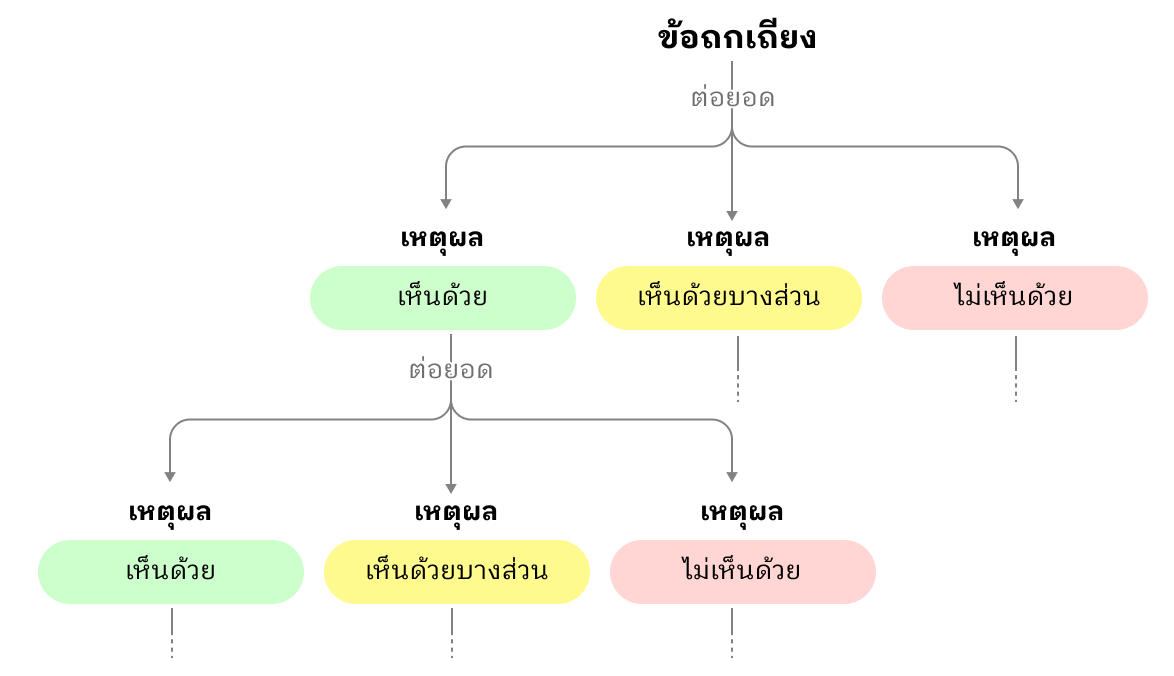
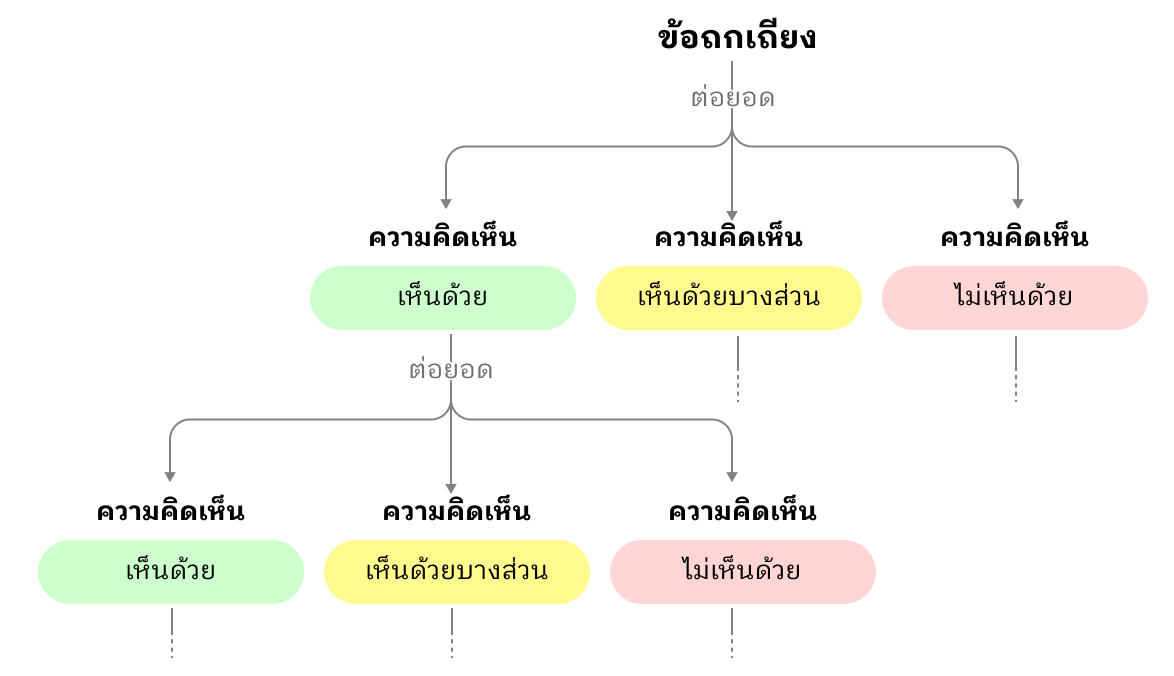
Add files via upload

diff --git a/dashboard.html b/dashboard.html
@@ -101,8 +101,8 @@
 
     <!-- Section 1 -->
     <h2 style="font-family:var(--font-display);font-weight:var(--font-display-weight);font-size:var(--font-size-lg);color:var(--color-text);margin-bottom:var(--space-4)">โครงสร้างข้อมูล</h2>
-    <img src="images/data_structure.png" alt="โครงสร้างข้อมูล" style="width:100%;border-radius:var(--radius-md);margin-bottom:var(--space-5)">
-    <p style="font-size:var(--font-size-sm);color:var(--color-text-muted);line-height:1.75;margin-bottom:var(--space-4)">ข้อมูลแพลตฟอร์มนี้เป็นเสมือนต้นไม้ของเหตุผล ประกอบไปด้วย <strong style="color:var(--color-text)">ข้อถกเถียง</strong> และ <strong style="color:var(--color-text)">เหตุผล</strong></p>
+    <img src="images/data_structure.png?v=1789470376" alt="โครงสร้างข้อมูล" style="width:100%;border-radius:var(--radius-md);margin-bottom:var(--space-5)">
+    <p style="font-size:var(--font-size-sm);color:var(--color-text-muted);line-height:1.75;margin-bottom:var(--space-4)">ข้อมูลแพลตฟอร์มนี้เป็นเสมือนต้นไม้ของความคิดเห็น ประกอบไปด้วย <strong style="color:var(--color-text)">ข้อถกเถียง</strong> และ <strong style="color:var(--color-text)">ความคิดเห็น</strong></p>
     <ul style="list-style:none;padding:0;display:flex;flex-direction:column;gap:var(--space-4);margin-bottom:var(--space-8)">
       <li style="display:flex;gap:var(--space-3);align-items:flex-start">
         <span style="flex-shrink:0;margin-top:3px">•</span>
@@ -111,13 +111,25 @@
       <li style="display:flex;gap:var(--space-3);align-items:flex-start">
         <span style="flex-shrink:0;margin-top:3px">•</span>
         <div style="font-size:var(--font-size-sm);color:var(--color-text-muted);line-height:1.75">
-          <strong style="color:var(--color-text)">เหตุผล</strong> คือ กิ่งก้านสาขา เป็นข้อความแสดงเหตุผลตอบโต้ข้อถกเถียงใดข้อถกเถียงหนึ่ง ซึ่งอาจเป็นเหตุผลที่ <strong>เห็นด้วย</strong> <strong>เห็นด้วยบางส่วน</strong> (หมายถึง เห็นด้วยแต่มีเงื่อนไขหรือข้อกังวลบางอย่าง) หรือ <strong>ไม่เห็นด้วย</strong> ต่อข้อถกเถียงนั้นๆ
+          <strong style="color:var(--color-text)">ความคิดเห็น</strong> คือ กิ่งก้านสาขา เป็นข้อความแสดงความคิดเห็นตอบโต้ข้อถกเถียงใดข้อถกเถียงหนึ่ง ซึ่งอาจเป็นความคิดเห็นที่ <strong>เห็นด้วย</strong> <strong>เห็นด้วยบางส่วน</strong> (หมายถึง เห็นด้วยแต่มีเงื่อนไขหรือข้อกังวลบางอย่าง) หรือ <strong>ไม่เห็นด้วย</strong> ต่อข้อถกเถียงนั้นๆ
           <ul style="list-style:none;padding:0;margin-top:var(--space-2)">
-            <li style="display:flex;gap:var(--space-2);align-items:flex-start;padding-left:var(--space-4)"><span style="flex-shrink:0;margin-top:3px">–</span><span>เหตุผลหนึ่งสามารถมีเหตุผลอื่นๆ ต่อยอดได้ โดยอาจเป็นเหตุผลที่ <strong>เห็นด้วย</strong> <strong>เห็นด้วยบางส่วน</strong> หรือ <strong>ไม่เห็นด้วย</strong> ต่อเหตุผลนั้นๆ</span></li>
+            <li style="display:flex;gap:var(--space-2);align-items:flex-start;padding-left:var(--space-4)"><span style="flex-shrink:0;margin-top:3px">–</span><span>ความคิดเห็นหนึ่งสามารถมีความคิดเห็นอื่นๆ ต่อยอดได้ โดยอาจเป็นความคิดเห็นที่ <strong>เห็นด้วย</strong> <strong>เห็นด้วยบางส่วน</strong> หรือ <strong>ไม่เห็นด้วย</strong> ต่อความคิดเห็นนั้นๆ</span></li>
           </ul>
         </div>
       </li>
     </ul>
+
+    <div style="background:var(--color-surface-alt);border-radius:var(--radius-md);padding:var(--space-4) var(--space-5);margin-bottom:var(--space-8)">
+      <div style="font-size:var(--font-size-xs);font-weight:600;color:var(--color-text-subtle);text-transform:uppercase;letter-spacing:0.05em;margin-bottom:var(--space-3)">เช่น</div>
+      <div style="font-size:var(--font-size-sm);color:var(--color-text-muted);line-height:1.75;margin-bottom:var(--space-3)"><strong style="color:var(--color-text)">ข้อถกเถียง:</strong> สสร. ควรมาจากการเลือกตั้ง 100%</div>
+      <div style="font-size:var(--font-size-sm);color:var(--color-text-muted);line-height:1.75">
+        <strong style="color:var(--color-text)">ความคิดเห็น:</strong>
+        <div style="margin-top:var(--space-2);display:flex;flex-direction:column;gap:var(--space-2)">
+          <div><strong>เห็นด้วย</strong> - จะได้รับประกันว่ารัฐธรรมนูญจะมีความยึดโยงกับประชาชน</div>
+          <div><strong>เห็นด้วยบางส่วน</strong> - ควรมีบางส่วนมาจากการแต่งตั้งตามความเชี่ยวชาญ เพื่อรับประกันความสามารถของผู้ร่าง</div>
+        </div>
+      </div>
+    </div>
 
     <!-- Section 2 -->
     <h2 style="font-family:var(--font-display);font-weight:var(--font-display-weight);font-size:var(--font-size-lg);color:var(--color-text);margin-bottom:var(--space-4);padding-top:var(--space-6);border-top:1px solid var(--color-border)">ที่มาและกระบวนการจัดการข้อมูล</h2>
@@ -127,7 +139,7 @@
       <li><strong style="color:var(--color-text)">เรียบเรียงและจัดระเบียบบทสนทนา</strong>
         <ul style="list-style:disc;padding-left:var(--space-5);margin-top:var(--space-2);display:flex;flex-direction:column;gap:var(--space-2)">
           <li>เมื่อจบวงสนทนา ผู้จดบันทึกบทสนทนาจะนำข้อมูลมาเรียบเรียงใหม่ตามโครงสร้างของเว็บไซต์ และกรอกข้อมูลเข้าสู่ระบบหลังบ้าน</li>
-          <li>เนื่องจากการสนทนาตามธรรมชาติมักไม่ได้มีโครงสร้างตายตัว คำพูดที่เกิดขึ้นในวงสนทนาจึงไม่ได้ถูกนำมาแสดงบนเว็บไซต์แบบตรงไปตรงมา แต่จะถูกเรียบเรียงและจัดระเบียบใหม่ โดยคำพูดที่ไม่ได้มีลักษณะเป็นข้อถกเถียงหรือเหตุผลประกอบข้อถกเถียง จะไม่ถูกนำมาแสดงบนเว็บไซต์</li>
+          <li>เนื่องจากการสนทนาตามธรรมชาติมักไม่ได้มีโครงสร้างตายตัว คำพูดที่เกิดขึ้นในวงสนทนาจึงไม่ได้ถูกนำมาแสดงบนเว็บไซต์แบบตรงไปตรงมา แต่จะถูกเรียบเรียงและจัดระเบียบใหม่ โดยคำพูดที่ไม่ได้มีลักษณะเป็นข้อถกเถียงหรือความคิดเห็นประกอบข้อถกเถียง จะไม่ถูกนำมาแสดงบนเว็บไซต์</li>
         </ul>
       </li>
       <li><strong style="color:var(--color-text)">กรอกข้อมูลเข้าสู่ระบบ</strong>
@@ -152,7 +164,7 @@
     <div style="background:var(--color-surface-alt);border-radius:var(--radius-md);border-left:3px solid var(--color-partial);padding:var(--space-4) var(--space-5);display:flex;flex-direction:column;gap:var(--space-3)">
       <p style="font-size:var(--font-size-sm);color:var(--color-text-muted);line-height:1.75;margin:0">ข้อมูลในแพลตฟอร์มนี้ <strong style="color:var(--color-text)">ไม่ใช่ผลสำรวจความคิดเห็น (Poll)</strong> เนื่องจากไม่ได้ใช้กระบวนการสุ่มตัวอย่างตามหลักการวิจัย และคำตอบส่วนใหญ่มีลักษณะเป็นคำตอบปลายเปิด</p>
       <p style="font-size:var(--font-size-sm);color:var(--color-text-muted);line-height:1.75;margin:0">ดังนั้น <strong style="color:var(--color-text)">'จำนวน'</strong> ต่าง ๆ ที่ปรากฏในเว็บไซต์ จึงไม่สามารถนำไปใช้อ้างอิงเพื่อสะท้อนความคิดเห็นของประชาชนทั้งประเทศได้</p>
-      <p style="font-size:var(--font-size-sm);color:var(--color-text-muted);line-height:1.75;margin:0">บทบาทของข้อมูลเชิงปริมาณในระบบ คือการช่วย <strong style="color:var(--color-text)">ชี้ให้เห็นประเด็นที่มีการถกเถียงและมุมมองที่หลากหลาย</strong> เพื่อให้ผู้ใช้งานสามารถลงลึกไปสำรวจเหตุผลและมุมมองที่แตกต่างกันได้ต่อไป</p>
+      <p style="font-size:var(--font-size-sm);color:var(--color-text-muted);line-height:1.75;margin:0">บทบาทของข้อมูลเชิงปริมาณในระบบ คือการช่วย <strong style="color:var(--color-text)">ชี้ให้เห็นประเด็นที่มีการถกเถียงและมุมมองที่หลากหลาย</strong> เพื่อให้ผู้ใช้งานสามารถลงลึกไปสำรวจความคิดเห็นและมุมมองที่แตกต่างกันได้ต่อไป</p>
     </div>
   </div>
 </div>
@@ -167,11 +179,11 @@
     <ul style="font-size:var(--font-size-sm);color:var(--color-text-muted);line-height:1.75;padding-left:var(--space-5);margin-bottom:var(--space-6);display:flex;flex-direction:column;gap:2px">
       <li>category.csv — หมวดหมู่และประเด็นย่อย</li>
       <li>topics.csv — ข้อถกเถียงทั้งหมด</li>
-      <li>comments.csv — เหตุผลทั้งหมด</li>
+      <li>comments.csv — ความคิดเห็นทั้งหมด</li>
       <li>events.csv — วงสนทนา</li>
       <li>topic_question.csv — ความเชื่อมโยงข้อถกเถียงกับประเด็น</li>
       <li>topic_event.csv — ความเชื่อมโยงข้อถกเถียงกับวงสนทนา</li>
-      <li>comment_event.csv — ความเชื่อมโยงเหตุผลกับวงสนทนา</li>
+      <li>comment_event.csv — ความเชื่อมโยงความคิดเห็นกับวงสนทนา</li>
     </ul>
     <div style="display:flex;gap:var(--space-3);justify-content:flex-end">
       <button onclick="closeDownloadModal()" style="padding:8px 20px;background:none;border:1px solid var(--color-border-strong);border-radius:var(--radius-md);font-family:var(--font-body);font-size:var(--font-size-sm);color:var(--color-text-muted);cursor:pointer">ยกเลิก</button>
@@ -180,8 +192,8 @@
   </div>
 </div>
 
-<script src="js/utils.js?v=3" charset="utf-8"></script>
-<script src="js/dashboard.js?v=19" charset="utf-8"></script>
+<script src="js/utils.js?v=4" charset="utf-8"></script>
+<script src="js/dashboard.js?v=23" charset="utf-8"></script>
 <script src="js/nav.js" charset="utf-8"></script>
 </body>
 </html>

diff --git a/about.html b/about.html
@@ -87,8 +87,8 @@ section:last-of-type { border-bottom: none; }
 
       <div class="data-subsection">
         <h3 class="sub-heading">โครงสร้างข้อมูล</h3>
-        <img src="images/data_structure.png" alt="โครงสร้างข้อมูล">
-        <p class="body-text">ข้อมูลแพลตฟอร์มนี้เป็นเสมือนต้นไม้ของเหตุผล ประกอบไปด้วย <strong style="color:var(--color-text)">ข้อถกเถียง</strong> และ <strong style="color:var(--color-text)">เหตุผล</strong></p>
+        <img src="images/data_structure.png?v=1789470376" alt="โครงสร้างข้อมูล">
+        <p class="body-text">ข้อมูลแพลตฟอร์มนี้เป็นเสมือนต้นไม้ของความคิดเห็น ประกอบไปด้วย <strong style="color:var(--color-text)">ข้อถกเถียง</strong> และ <strong style="color:var(--color-text)">ความคิดเห็น</strong></p>
         <ul style="list-style:none;padding:0">
           <li style="display:flex;gap:var(--space-3);align-items:flex-start;margin-bottom:var(--space-3)">
             <span>•</span>
@@ -97,13 +97,24 @@ section:last-of-type { border-bottom: none; }
           <li style="display:flex;gap:var(--space-3);align-items:flex-start">
             <span>•</span>
             <span>
-              <strong style="color:var(--color-text)">เหตุผล</strong> คือ กิ่งก้านสาขา เป็นข้อความแสดงเหตุผลตอบโต้ข้อถกเถียงใดข้อถกเถียงหนึ่ง ซึ่งอาจเป็นเหตุผลที่ <strong>เห็นด้วย</strong> <strong>เห็นด้วยบางส่วน</strong> (หมายถึง เห็นด้วยแต่มีเงื่อนไขหรือข้อกังวลบางอย่าง) หรือ <strong>ไม่เห็นด้วย</strong> ต่อข้อถกเถียงนั้นๆ
+              <strong style="color:var(--color-text)">ความคิดเห็น</strong> คือ กิ่งก้านสาขา เป็นข้อความแสดงความคิดเห็นตอบโต้ข้อถกเถียงใดข้อถกเถียงหนึ่ง ซึ่งอาจเป็นความคิดเห็นที่ <strong>เห็นด้วย</strong> <strong>เห็นด้วยบางส่วน</strong> (หมายถึง เห็นด้วยแต่มีเงื่อนไขหรือข้อกังวลบางอย่าง) หรือ <strong>ไม่เห็นด้วย</strong> ต่อข้อถกเถียงนั้นๆ
               <ul style="list-style:none;padding:0;margin-top:var(--space-2)">
-                <li style="display:flex;gap:var(--space-2);align-items:flex-start;padding-left:var(--space-4)"><span>–</span><span>เหตุผลหนึ่งสามารถมีเหตุผลอื่นๆ ต่อยอดได้ โดยอาจเป็นเหตุผลที่ <strong>เห็นด้วย</strong> <strong>เห็นด้วยบางส่วน</strong> หรือ <strong>ไม่เห็นด้วย</strong> ต่อเหตุผลนั้นๆ</span></li>
+                <li style="display:flex;gap:var(--space-2);align-items:flex-start;padding-left:var(--space-4)"><span>–</span><span>ความคิดเห็นหนึ่งสามารถมีความคิดเห็นอื่นๆ ต่อยอดได้ โดยอาจเป็นความคิดเห็นที่ <strong>เห็นด้วย</strong> <strong>เห็นด้วยบางส่วน</strong> หรือ <strong>ไม่เห็นด้วย</strong> ต่อความคิดเห็นนั้นๆ</span></li>
               </ul>
             </span>
           </li>
         </ul>
+        <div style="background:var(--color-surface-alt);border-radius:var(--radius-md);padding:var(--space-4) var(--space-5)">
+          <div style="font-size:var(--font-size-xs);font-weight:600;color:var(--color-text-subtle);text-transform:uppercase;letter-spacing:0.05em;margin-bottom:var(--space-3)">เช่น</div>
+          <div style="font-size:var(--font-size-sm);color:var(--color-text-muted);line-height:1.75;margin-bottom:var(--space-3)"><strong style="color:var(--color-text)">ข้อถกเถียง:</strong> สสร. ควรมาจากการเลือกตั้ง 100%</div>
+          <div style="font-size:var(--font-size-sm);color:var(--color-text-muted);line-height:1.75">
+            <strong style="color:var(--color-text)">ความคิดเห็น:</strong>
+            <div style="margin-top:var(--space-2);display:flex;flex-direction:column;gap:var(--space-2)">
+              <div><strong>เห็นด้วย</strong> - จะได้รับประกันว่ารัฐธรรมนูญจะมีความยึดโยงกับประชาชน</div>
+              <div><strong>เห็นด้วยบางส่วน</strong> - ควรมีบางส่วนมาจากการแต่งตั้งตามความเชี่ยวชาญ เพื่อรับประกันความสามารถของผู้ร่าง</div>
+            </div>
+          </div>
+        </div>
       </div>
 
       <div class="data-subsection">
@@ -114,7 +125,7 @@ section:last-of-type { border-bottom: none; }
           <li><strong style="color:var(--color-text)">เรียบเรียงและจัดระเบียบบทสนทนา</strong>
             <ul style="list-style:disc;padding-left:var(--space-5)">
               <li>เมื่อจบวงสนทนา ผู้จดบันทึกบทสนทนาจะนำข้อมูลมาเรียบเรียงใหม่ตามโครงสร้างของเว็บไซต์ และกรอกข้อมูลเข้าสู่ระบบหลังบ้าน</li>
-              <li>เนื่องจากการสนทนาตามธรรมชาติมักไม่ได้มีโครงสร้างตายตัว คำพูดที่เกิดขึ้นในวงสนทนาจึงไม่ได้ถูกนำมาแสดงบนเว็บไซต์แบบตรงไปตรงมา แต่จะถูกเรียบเรียงและจัดระเบียบใหม่ โดยคำพูดที่ไม่ได้มีลักษณะเป็นข้อถกเถียงหรือเหตุผลประกอบข้อถกเถียง จะไม่ถูกนำมาแสดงบนเว็บไซต์</li>
+              <li>เนื่องจากการสนทนาตามธรรมชาติมักไม่ได้มีโครงสร้างตายตัว คำพูดที่เกิดขึ้นในวงสนทนาจึงไม่ได้ถูกนำมาแสดงบนเว็บไซต์แบบตรงไปตรงมา แต่จะถูกเรียบเรียงและจัดระเบียบใหม่ โดยคำพูดที่ไม่ได้มีลักษณะเป็นข้อถกเถียงหรือความคิดเห็นประกอบข้อถกเถียง จะไม่ถูกนำมาแสดงบนเว็บไซต์</li>
             </ul>
           </li>
           <li><strong style="color:var(--color-text)">กรอกข้อมูลเข้าสู่ระบบ</strong>
@@ -140,7 +151,7 @@ section:last-of-type { border-bottom: none; }
         <div class="data-caution">
           <p>ข้อมูลในแพลตฟอร์มนี้ <strong style="color:var(--color-text)">ไม่ใช่ผลสำรวจความคิดเห็น (Poll)</strong> เนื่องจากไม่ได้ใช้กระบวนการสุ่มตัวอย่างตามหลักการวิจัย และคำตอบส่วนใหญ่มีลักษณะเป็นคำตอบปลายเปิด</p>
           <p>ดังนั้น <strong style="color:var(--color-text)">'จำนวน'</strong> ต่าง ๆ ที่ปรากฏในเว็บไซต์ จึงไม่สามารถนำไปใช้อ้างอิงเพื่อสะท้อนความคิดเห็นของประชาชนทั้งประเทศได้</p>
-          <p>บทบาทของข้อมูลเชิงปริมาณในระบบ คือการช่วย <strong style="color:var(--color-text)">ชี้ให้เห็นประเด็นที่มีการถกเถียงและมุมมองที่หลากหลาย</strong> เพื่อให้ผู้ใช้งานสามารถลงลึกไปสำรวจเหตุผลและมุมมองที่แตกต่างกันได้ต่อไป</p>
+          <p>บทบาทของข้อมูลเชิงปริมาณในระบบ คือการช่วย <strong style="color:var(--color-text)">ชี้ให้เห็นประเด็นที่มีการถกเถียงและมุมมองที่หลากหลาย</strong> เพื่อให้ผู้ใช้งานสามารถลงลึกไปสำรวจความคิดเห็นและมุมมองที่แตกต่างกันได้ต่อไป</p>
         </div>
       </div>
 
@@ -233,11 +244,11 @@ section:last-of-type { border-bottom: none; }
     <ul style="font-size:var(--font-size-sm);color:var(--color-text-muted);line-height:1.75;padding-left:var(--space-5);margin-bottom:var(--space-6);display:flex;flex-direction:column;gap:2px">
       <li>category.csv — หมวดหมู่และประเด็นย่อย</li>
       <li>topics.csv — ข้อถกเถียงทั้งหมด</li>
-      <li>comments.csv — เหตุผลทั้งหมด</li>
+      <li>comments.csv — ความคิดเห็นทั้งหมด</li>
       <li>events.csv — วงสนทนา</li>
       <li>topic_question.csv — ความเชื่อมโยงข้อถกเถียงกับประเด็น</li>
       <li>topic_event.csv — ความเชื่อมโยงข้อถกเถียงกับวงสนทนา</li>
-      <li>comment_event.csv — ความเชื่อมโยงเหตุผลกับวงสนทนา</li>
+      <li>comment_event.csv — ความเชื่อมโยงความคิดเห็นกับวงสนทนา</li>
     </ul>
     <div style="display:flex;gap:var(--space-3);justify-content:flex-end">
       <button onclick="closeDownloadModal()" style="padding:8px 20px;background:none;border:1px solid var(--color-border-strong);border-radius:var(--radius-md);font-family:var(--font-body);font-size:var(--font-size-sm);color:var(--color-text-muted);cursor:pointer">ยกเลิก</button>

diff --git a/js/dashboard.js b/js/dashboard.js
@@ -414,7 +414,7 @@ function renderEventSidebar() {
   // Result label — mirrors event breadcrumb text
   let resultText = '';
   if (state.selectedDemographicTags.size > 0) {
-    const tagList = [...state.selectedDemographicTags].join(' ');
+    const tagList = [...state.selectedDemographicTags].join(' | ');
     resultText = `ทุกวงสนทนาที่มี ${tagList}`;
   } else if (state.selectedEvtId) {
     const evt = state.events[state.selectedEvtId] || {};
@@ -447,8 +447,12 @@ function renderEventSidebar() {
       })
     : evts;
 
-  // Sort filtered events by date descending (newest first)
+  // Sort: selected event always first, then by date descending (newest first)
   filteredEvts.sort((a, b) => {
+    const aSelected = a.event_id === state.selectedEvtId;
+    const bSelected = b.event_id === state.selectedEvtId;
+    if (aSelected && !bSelected) return -1;
+    if (bSelected && !aSelected) return 1;
     const da = a.date ? new Date(a.date) : new Date(0);
     const db = b.date ? new Date(b.date) : new Date(0);
     return db - da;
@@ -463,7 +467,7 @@ function renderEventSidebar() {
     const domId = `evt-${eid}`;
     const isOpen = state.selectedEvtId === eid;
     const topicCount = (state.eventTopics[eid] || []).length;
-    const dateStr = evt.date ? evt.date.substring(0, 10) : '';
+    const dateStr = evt.date ? formatThaiDate(evt.date) : '';
     const titleEn = evt.title_en || evt.display_name || eid;
     const loc = evt.location || '';
     const group = evt.target_group || '';
@@ -660,7 +664,7 @@ function renderTopics() {
       <div class="topics-count">แสดง <strong>${filtered.length}</strong> จากทั้งหมด ${state.topics.length} ข้อถกเถียง</div>
       <div style="display:flex;align-items:center;gap:var(--space-2)">
         <span style="font-size:var(--font-size-xs);color:var(--color-text-muted);white-space:nowrap">เรียงตาม</span>
-        <select class="sort-select" onchange="handleSort(this.value)" id="sort-select">        <option value="most_commented" ${state.sort === 'most_commented' ? 'selected' : ''}>จำนวนเหตุผล</option>
+        <select class="sort-select" onchange="handleSort(this.value)" id="sort-select">        <option value="most_commented" ${state.sort === 'most_commented' ? 'selected' : ''}>จำนวนความคิดเห็น</option>
         <option value="most_agreed" ${state.sort === 'most_agreed' ? 'selected' : ''}>จำนวนเห็นด้วย</option>
         <option value="most_disagreed_partial" ${state.sort === 'most_disagreed_partial' ? 'selected' : ''}>จำนวนเห็นด้วยบางส่วนหรือไม่เห็นด้วย</option>
         ${state.selectedQId ? `<option value="distance_to_question" ${state.sort === 'distance_to_question' ? 'selected' : ''}>ความเกี่ยวข้องกับประเด็นที่เลือก</option>` : ''}
@@ -673,7 +677,7 @@ function renderTopics() {
       <span style="display:flex;align-items:center;gap:5px"><span style="display:inline-block;width:15px;height:15px;border-radius:50%;background:var(--color-partial-light);border:1px solid rgba(0,0,0,0.08)"></span>เห็นด้วยบางส่วน</span>
       <span style="display:flex;align-items:center;gap:5px"><span style="display:inline-block;width:15px;height:15px;border-radius:50%;background:var(--color-disagree-light);border:1px solid rgba(0,0,0,0.08)"></span>ไม่เห็นด้วย</span>
       <span style="color:var(--color-text-subtle)">|</span>
-      <span style="display:flex;align-items:center;gap:5px"><span style="position:relative;display:inline-flex;align-items:center;justify-content:center;width:15px;height:15px;border-radius:50%;background:transparent;border:1.5px solid rgba(0,0,0,0.35)"><span style="position:absolute;font-size:10px;line-height:1;color:rgba(0,0,0,0.45);font-weight:700">+</span></span>เหตุผลที่มีการต่อยอด</span>
+      <span style="display:flex;align-items:center;gap:5px"><span style="position:relative;display:inline-flex;align-items:center;justify-content:center;width:15px;height:15px;border-radius:50%;background:transparent;border:1.5px solid rgba(0,0,0,0.35)"><span style="position:absolute;font-size:10px;line-height:1;color:rgba(0,0,0,0.45);font-weight:700">+</span></span>ความคิดเห็นที่มีการต่อยอด</span>
       <span style="color:var(--color-text-subtle)">|</span>
       <button onclick="showHowToRead()" style="background:none;border:none;font-family:var(--font-body);font-size:var(--font-size-xs);color:var(--color-accent);cursor:pointer;padding:0;text-decoration:underline">เกี่ยวกับข้อมูล</button>
     </div>
@@ -702,7 +706,7 @@ function renderTopics() {
         <div class="topic-title">${titleHtml}</div>
       </div>
       <div class="topic-card-bottom">
-        <div class="total-comments">${depth0Total}<span style="color:#979797"> เหตุผล</span></div>
+        <div class="total-comments">${depth0Total}<span style="color:#979797"> ความคิดเห็น</span></div>
         ${depth0Total === 0 ? '' : `<div class="circle-bar-wrap">${buildCircleBars(t.id)}</div>`}
         ${excerpt ? `<div style="font-size:var(--font-size-xs);color:var(--color-text-muted);line-height:1.5;margin-top:var(--space-2)">${excerpt}</div>` : ''}
       </div>
@@ -912,7 +916,7 @@ function updateBreadcrumb() {
   const evtEl = document.getElementById('breadcrumb-evt-text');
   if (evtEl) {
     if (state.selectedDemographicTags.size > 0) {
-      const tagList = [...state.selectedDemographicTags].map(t => escHtml(t)).join(' ');
+      const tagList = [...state.selectedDemographicTags].map(t => escHtml(t)).join(' | ');
       evtEl.innerHTML = `<span style="color:var(--color-text-subtle);font-weight:400">ทุกวงสนทนาที่มี</span> <span class="breadcrumb-active">${tagList}</span>`;
     } else if (state.selectedEvtId) {
       const evt = state.events[state.selectedEvtId] || {};
@@ -1059,7 +1063,7 @@ function buildEventTooltip(eid, style) {
   if (e.display_name) tooltipRows.push(`<div class="evt-tooltip-row"><div class="evt-tooltip-label">ชื่อวงสนทนา</div><div>${escHtml(e.display_name)}</div></div>`);
   if (e.title_en)     tooltipRows.push(`<div class="evt-tooltip-row"><div class="evt-tooltip-label">Title (EN)</div><div>${escHtml(e.title_en)}</div></div>`);
   if (e.location)     tooltipRows.push(`<div class="evt-tooltip-row"><div class="evt-tooltip-label">สถานที่</div><div>${escHtml(e.location)}</div></div>`);
-  if (e.date)         tooltipRows.push(`<div class="evt-tooltip-row"><div class="evt-tooltip-label">วันที่</div><div>${e.date.substring(0,10)}</div></div>`);
+  if (e.date)         tooltipRows.push(`<div class="evt-tooltip-row"><div class="evt-tooltip-label">วันที่</div><div>${formatThaiDate(e.date)}</div></div>`);
   if (e.target_group) tooltipRows.push(`<div class="evt-tooltip-row"><div class="evt-tooltip-label">กลุ่มเป้าหมาย</div><div>${escHtml(e.target_group)}</div></div>`);
   if (e.participants) tooltipRows.push(`<div class="evt-tooltip-row"><div class="evt-tooltip-label">ผู้เข้าร่วม</div><div>${escHtml(e.participants)} คน</div></div>`);
   if (e.description)  tooltipRows.push(`<div class="evt-tooltip-row"><div class="evt-tooltip-label">รายละเอียด</div><div>${escHtml(e.description)}</div></div>`);
@@ -1274,7 +1278,7 @@ function renderCommentTree(comments, depth) {
   const defaultView = activeGroups[0].view;
   const contextLabel = depth === 0
     ? `<span style="font-size:var(--font-size-xs);color:var(--color-text-muted)">กับข้อถกเถียงนี้</span>`
-    : `<span style="font-size:var(--font-size-xs);color:var(--color-text-muted)">กับเหตุผลนี้</span>`;
+    : `<span style="font-size:var(--font-size-xs);color:var(--color-text-muted)">กับความคิดเห็นนี้</span>`;
 
   // Tab bar
   const colorKey = v => v === 'เห็นด้วย' ? 'agree' : v === 'เห็นด้วยบางส่วน' ? 'partial' : 'disagree';

diff --git a/index.html b/index.html
@@ -168,14 +168,14 @@ section { padding: calc(var(--space-8)*2) 0; }
 <section id="about-data">
   <div class="section-inner">
     <div class="about-data-grid">
-      <img src="images/data_structure.png" alt="โครงสร้างข้อมูล" class="about-data-img">
+      <img src="images/data_structure.png?v=1789470376" alt="โครงสร้างข้อมูล" class="about-data-img">
       <div class="about-data-text">
         <h2 class="section-heading">ความหลากหลายของมุมมอง คือหัวใจสำคัญของโครงการนี้</h2>
         <p class="about-data-desc">เรานำข้อถกเถียงจากแต่ละวงสนทนามาเรียบเรียงและจัดโครงสร้างให้เป็นระบบ โดยหวังว่าช่วยให้ผู้ที่มีส่วนในการร่างรัฐธรรมนูญสามารถพิจารณาทางเลือกต่างๆ ได้รอบด้านมากขึ้น และนำไปสู่การพูดคุยเพื่อหาข้อตกลงร่วมกัน</p>
         <div style="border-left:3px solid var(--color-border-strong);padding-left:var(--space-4)">
           <div style="font-size:var(--font-size-xs);font-weight:600;color:var(--color-text-subtle);text-transform:uppercase;letter-spacing:0.05em;margin-bottom:var(--space-2)">ข้อควรระวังในการตีความข้อมูล</div>
           <p style="font-size:var(--font-size-xs);color:var(--color-text-subtle);line-height:1.75;margin-bottom:var(--space-2)">ข้อมูลในแพลตฟอร์มนี้ ไม่ใช่ผลสำรวจความคิดเห็น (Poll) เนื่องจากไม่ได้ใช้กระบวนการสุ่มตัวอย่างตามหลักการวิจัย และคำตอบส่วนใหญ่มีลักษณะเป็นคำตอบปลายเปิด</p>
-          <p style="font-size:var(--font-size-xs);color:var(--color-text-subtle);line-height:1.75;margin:0">'จำนวน' ต่าง ๆ ที่ปรากฏในเว็บไซต์ จึงไม่สามารถนำไปใช้อ้างอิงเพื่อสะท้อนความคิดเห็นของประชาชนทั้งประเทศได้</p>
+          <p style="font-size:var(--font-size-xs);color:var(--color-text-subtle);line-height:1.75;margin:0"><strong>'จำนวน'</strong> ต่าง ๆ ที่ปรากฏในเว็บไซต์ จึงไม่สามารถนำไปใช้อ้างอิงเพื่อสะท้อนความคิดเห็นของประชาชนทั้งประเทศได้</p>
         </div>
         <div><a class="btn-secondary" href="about.html#about-data">อ่านรายละเอียดเกี่ยวกับข้อมูล →</a></div>
       </div>
@@ -234,7 +234,7 @@ section { padding: calc(var(--space-8)*2) 0; }
     <div class="collab-columns">
       <div class="collab-col">
         <div style="font-size:1.75rem;margin-bottom:var(--space-2)">🤝</div>
-        <div class="collab-col-title">เป็นพาร์ทเนอร์กับ WeVis เพื่อจัดวงสนทนา</div>
+        <div class="collab-col-title">เป็นพาร์ตเนอร์กับ WeVis เพื่อจัดวงสนทนา</div>
         <div class="collab-col-body">สามารถติดต่อได้ที่ <a href="mailto:contact@wevis.info">contact@wevis.info</a></div>
       </div>
       <div class="collab-divider"></div>
@@ -309,11 +309,11 @@ section { padding: calc(var(--space-8)*2) 0; }
       <img class="contributor-logo" src="images/hand-logo-black.svg" alt="Hand">
       <img class="contributor-logo" src="images/tij-logo-black.svg" alt="TIJ">
     </div>
-    <a class="btn-secondary" href="about.html">อ่านรายละเอียดเพิ่มเติมเกี่ยวกับโครงการ →</a>
+    <a class="btn-secondary" href="about.html">อ่านรายละเอียดเกี่ยวกับโครงการ →</a>
   </div>
 </section>
 
-<script src="js/utils.js" charset="utf-8"></script>
+<script src="js/utils.js?v=1" charset="utf-8"></script>
 <script>
 // ── Animate counter ──
 function animateCount(elId, target, duration) {
@@ -425,13 +425,13 @@ async function loadHome() {
     const sortedEvts = [...evts].filter(e => e.date).sort((a, b) => new Date(b.date) - new Date(a.date));
     const latestDateEl = document.getElementById('latest-evt-date');
     if (latestDateEl && sortedEvts.length) {
-      latestDateEl.textContent = `วงสนทนาล่าสุด: ${sortedEvts[0].date.substring(0, 10)}`;
+      latestDateEl.textContent = `วงสนทนาล่าสุด: ${formatThaiDate(sortedEvts[0].date)}`;
     }
     const evtHtml = sortedEvts.map(e => {
       const tags = (e.demographic_tag || '').split(',').map(t => t.trim()).filter(Boolean);
       const tagsHtml = tags.map(t => `<span class="evt-tag">${escHtml(t)}</span>`).join('');
       const count = (evtTopicCount[e.event_id] || new Set()).size;
-      const dateStr = e.date ? e.date.substring(0,10) : '';
+      const dateStr = e.date ? formatThaiDate(e.date) : '';
       const name = e.display_name || e.title_en || '';
       return `<a class="evt-card" href="dashboard.html?evt=${encodeURIComponent(e.event_id)}">
         <div style="display:flex;align-items:flex-start;justify-content:space-between;gap:var(--space-2)">

diff --git a/js/utils.js b/js/utils.js
@@ -16,3 +16,15 @@ function escAttr(s) {
   if (!s) return '';
   return String(s).replace(/'/g, "\\'").replace(/"/g, '&quot;');
 }
+
+// Format a date string (e.g. "2024-11-10" or full ISO) into Thai format: "10 พ.ย. 2568"
+function formatThaiDate(dateStr) {
+  if (!dateStr) return '';
+  const d = new Date(dateStr);
+  if (isNaN(d.getTime())) return dateStr; // fallback to raw string if unparseable
+  const thaiMonths = ['ม.ค.', 'ก.พ.', 'มี.ค.', 'เม.ย.', 'พ.ค.', 'มิ.ย.', 'ก.ค.', 'ส.ค.', 'ก.ย.', 'ต.ค.', 'พ.ย.', 'ธ.ค.'];
+  const day = d.getDate();
+  const month = thaiMonths[d.getMonth()];
+  const yearBE = d.getFullYear() + 543;
+  return `${day} ${month} ${yearBE}`;
+}
